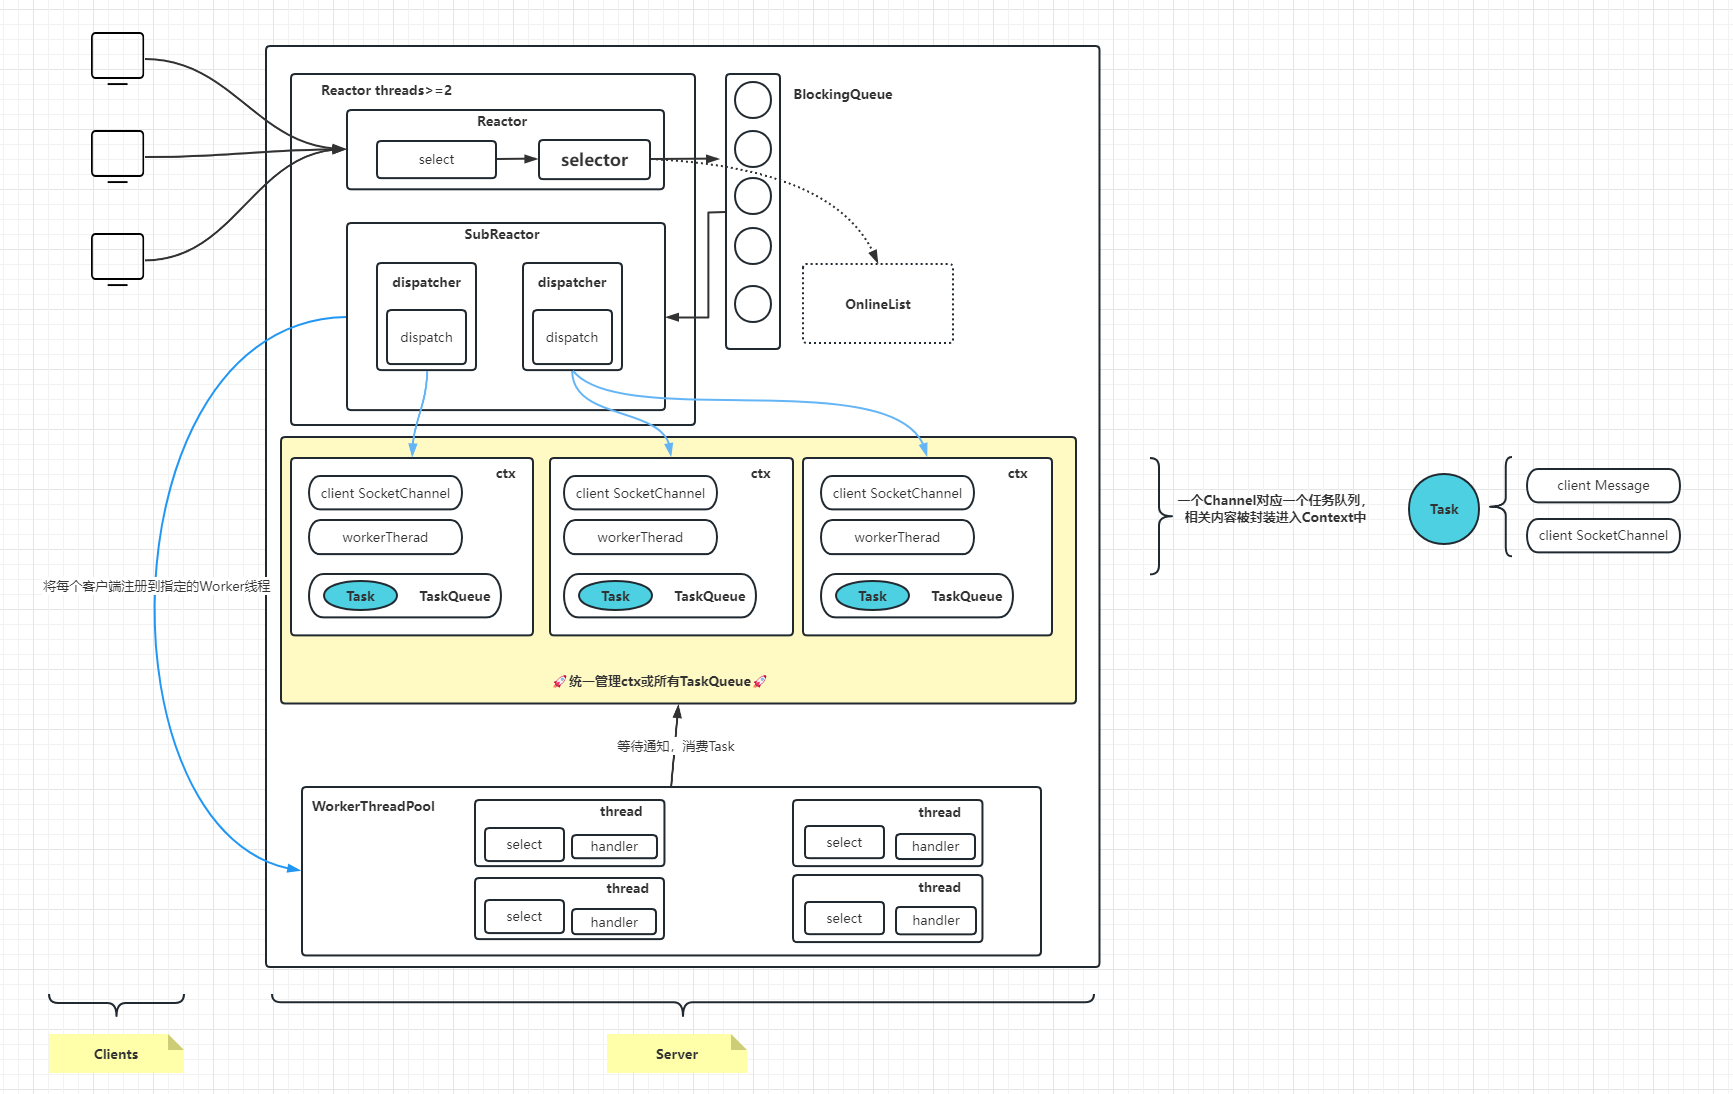
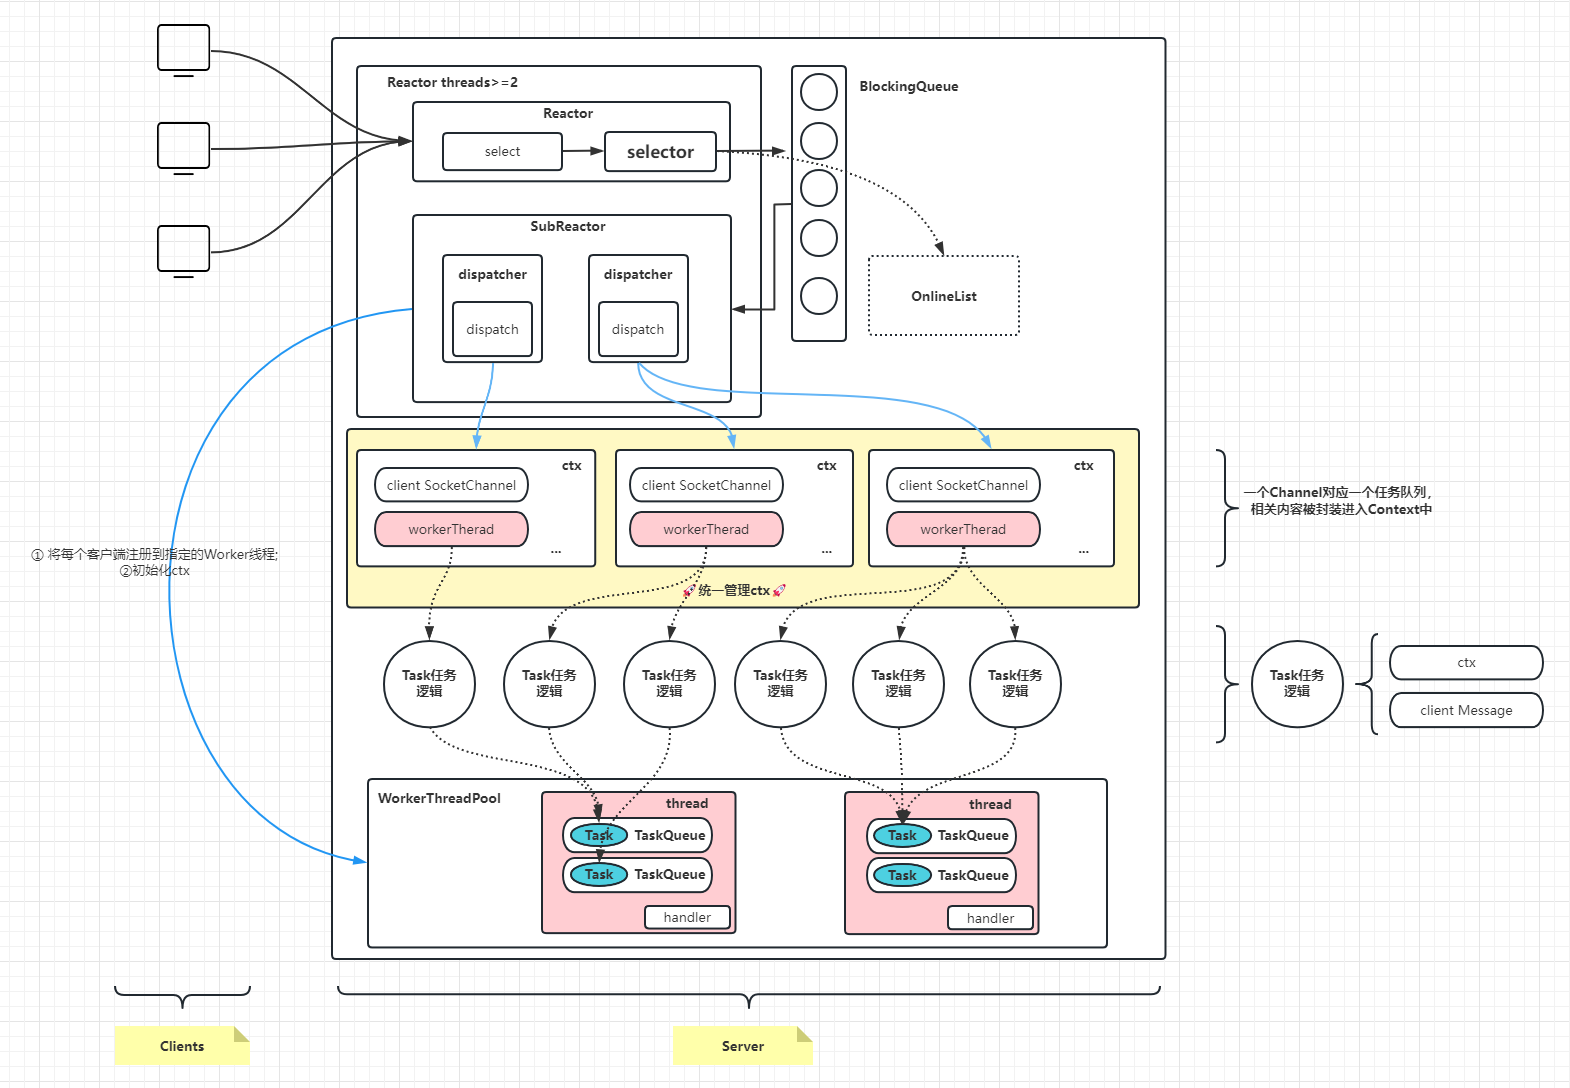
update readme: update new structure 5🚀

diff --git a/README.MD b/README.MD
@@ -23,10 +23,9 @@
 
 - 将Worker需要执行的任务抽象为Task，由多个Dispatcher统一存放进入TaskQueue，Worker只需要关注于异步消费Task；
   - <u>Worker职能单一化，注册与监听功能下方到Dispatcher</u>；
-  - 异步消费Task，避免之前方案中出现任务耗时，阻塞整个注册在Worker线程Selector上所有客户端事件的情况💥💥💥
+  - 引入TaskQueue，异步消费Task，避免之前方案中出现任务耗时，阻塞整个注册在Worker线程Selector上所有客户端事件的情况💣
 - 工作任务线程池数量，建议采取可用处理器数*2，合适的线程数能够很好应对部分耗时的处理操作。
   - ```Runtime.getRuntime().availableProcessors()*2```
-- 缺点：线程池线程需要主动监听TaskQueue💣
 
  ![Project Structure](https://github.com/MagicFollower/chatroom/blob/main/docs/img/update-structure-2.png)
 
@@ -36,15 +35,15 @@
   - 将客户端所有相关的信息，封装为Context（ctx），然后统一管理所有上下文或所有TaskQueue；
 - 由于每一个连接的客户端对应一个Context，我们可以取消单独用于存储在线用户的数据结构；
 - 客户端监听所有上下文或所有TaskQueue，完成事件的异步消费。
-- 缺点：线程池线程需要主动监听TaskQueue💣
 
  ![Project Structure](https://github.com/MagicFollower/chatroom/blob/main/docs/img/update-structure-3.png)
 
 🔥架构方案（五）🔥
 
-- 对架构方案三、四的升级，解决[ 线程池线程需要主动监听TaskQueue ]的问题；
-  - 将监听功能重新转移到Worker线程中，此时Worker线程不需要主动监听是否存在任务，当由任务存在时会收到通知。
+- 明确任务队列所在的位置及各个组件的具体职责；
+- 提供多类型任务队列（CommonTaskQueue、ScheduledTaskQueue）；
 
  ![Project Structure](https://github.com/MagicFollower/chatroom/blob/main/docs/img/update-structure-4.png)
 
-💭[Netty](https://netty.io/)架构和当前架构五有着很多类似的地方💭
+
+
